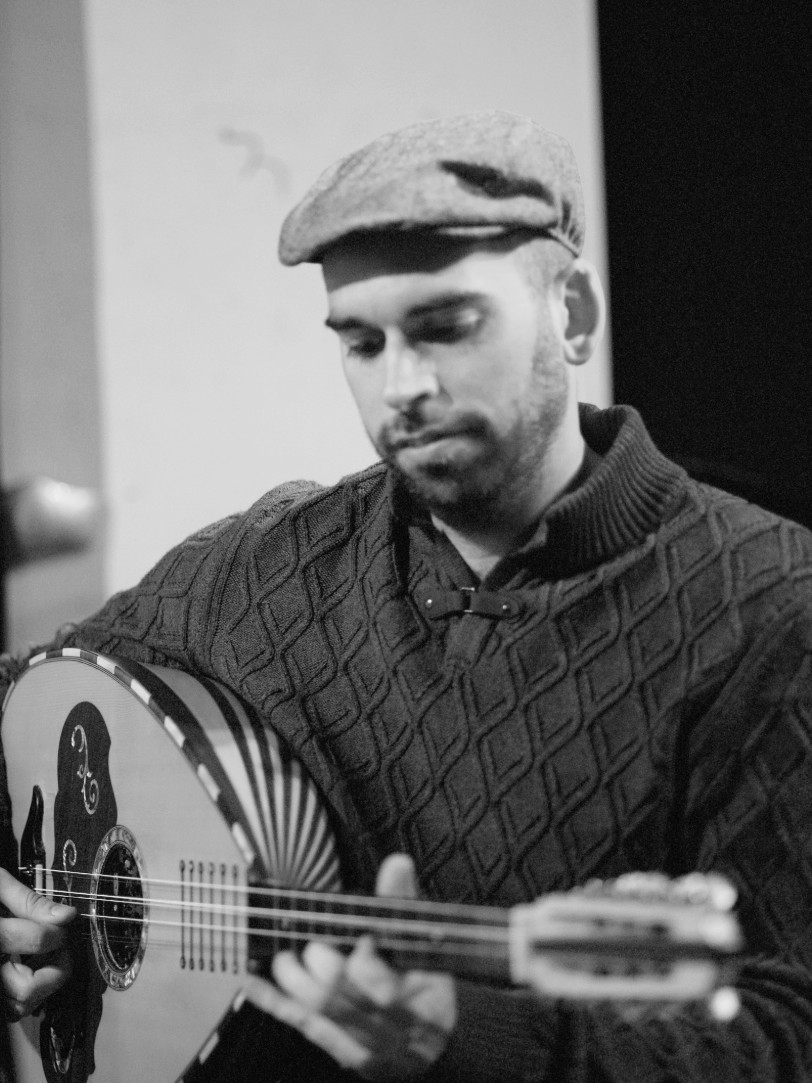
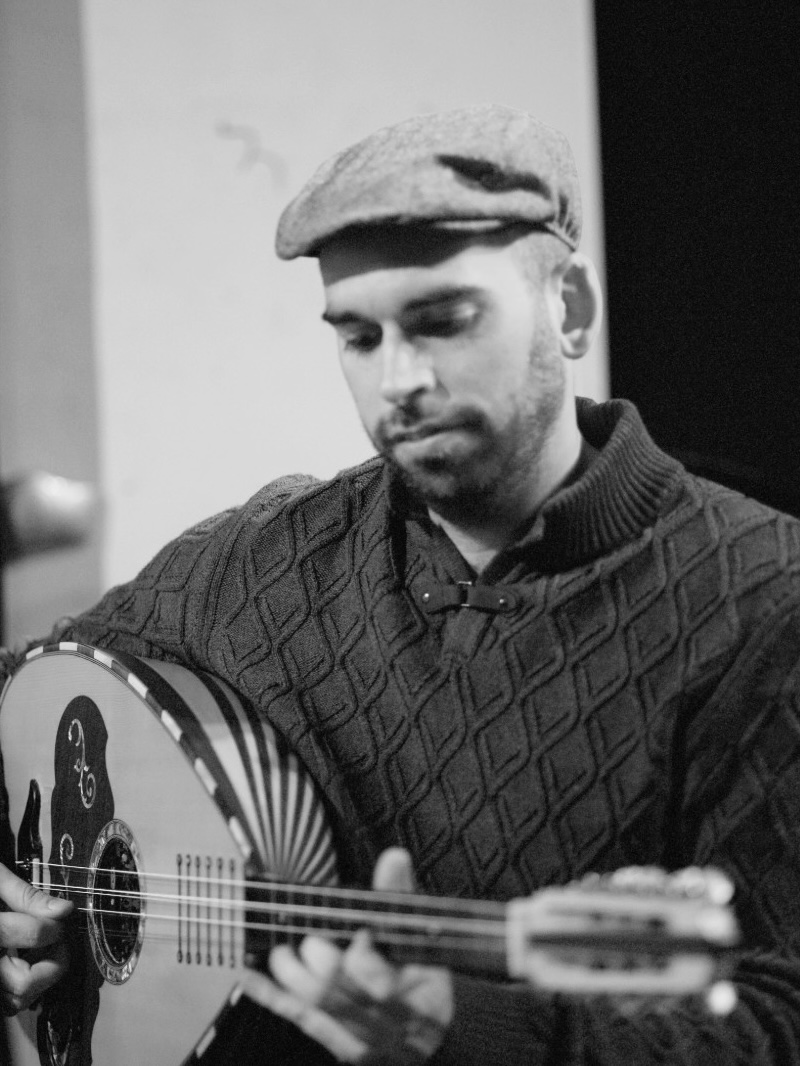
move yannis, fix photos

diff --git a/index.html b/index.html
@@ -1750,39 +1750,7 @@
                                                                     </div>
                                                                 </div>
                                                             </div>
-                                                            <div class="elementor-column elementor-col-50 elementor-inner-column elementor-element elementor-element-94ba7c7" 
-                                                            data-id="94ba7c7" data-element_type="column" id="yannis">
-                                                            <div
-                                                                class="elementor-column-wrap elementor-element-populated">
-                                                                <div class="elementor-widget-wrap">
-                                                                    <div class="elementor-element elementor-element-05a3cdb elementor-position-top elementor-vertical-align-top elementor-widget elementor-widget-image-box"
-                                                                        data-id="05a3cdb" data-element_type="widget"
-                                                                        data-widget_type="image-box.default">
-                                                                        <div class="elementor-widget-container">
-                                                                            <div
-                                                                                class="elementor-image-box-wrapper">
-                                                                                <figure
-                                                                                    class="elementor-image-box-img">
-                                                                                    <img width="960" height="1280"
-                                                                                        src="./images/yannis.jpg"
-                                                                                        class="attachment-full size-full"
-                                                                                        alt="" loading="lazy" />
-                                                                                </figure>
-                                                                                <div
-                                                                                    class="elementor-image-box-content">
-                                                                                    <h4
-                                                                                        class="elementor-image-box-title">
-                                                                                        yannis<br>markou</h4>
-                                                                                    <p
-                                                                                        class="elementor-image-box-description">
-                                                                                        Piano</p>
-                                                                                </div>
-                                                                            </div>
-                                                                        </div>
-                                                                    </div>
-                                                                </div>
-                                                            </div>
-                                                        </div>
+                                                            
                                                         </div>
                                                     </div>
                                                 </section>
@@ -1918,7 +1886,7 @@ Click to see our
                                                                                     class="elementor-image-box-wrapper">
                                                                                     <figure
                                                                                         class="elementor-image-box-img">
-                                                                                        <img width="812" height="1083"
+                                                                                        <img width="960" height="1280"
                                                                                             src="./images/uploads-2020-07-psilos-2.jpg"
                                                                                             class="attachment-full size-full"
                                                                                             alt="" loading="lazy" />
@@ -1972,6 +1940,39 @@ Click to see our
                                                                     </div>
                                                                 </div>
                                                             </div>
+                                                            <div class="elementor-column elementor-col-50 elementor-inner-column elementor-element elementor-element-94ba7c7" 
+                                                            data-id="94ba7c7" data-element_type="column" id="yannis">
+                                                            <div
+                                                                class="elementor-column-wrap elementor-element-populated">
+                                                                <div class="elementor-widget-wrap">
+                                                                    <div class="elementor-element elementor-element-05a3cdb elementor-position-top elementor-vertical-align-top elementor-widget elementor-widget-image-box"
+                                                                        data-id="05a3cdb" data-element_type="widget"
+                                                                        data-widget_type="image-box.default">
+                                                                        <div class="elementor-widget-container">
+                                                                            <div
+                                                                                class="elementor-image-box-wrapper">
+                                                                                <figure
+                                                                                    class="elementor-image-box-img">
+                                                                                    <img width="960" height="1280"
+                                                                                        src="./images/yannis.jpg"
+                                                                                        class="attachment-full size-full"
+                                                                                        alt="" loading="lazy" />
+                                                                                </figure>
+                                                                                <div
+                                                                                    class="elementor-image-box-content">
+                                                                                    <h4
+                                                                                        class="elementor-image-box-title">
+                                                                                        yannis<br>markou</h4>
+                                                                                    <p
+                                                                                        class="elementor-image-box-description">
+                                                                                        Piano</p>
+                                                                                </div>
+                                                                            </div>
+                                                                        </div>
+                                                                    </div>
+                                                                </div>
+                                                            </div>
+                                                        </div>
                                                         </div>
                                                     </div>
                                                 </section>
